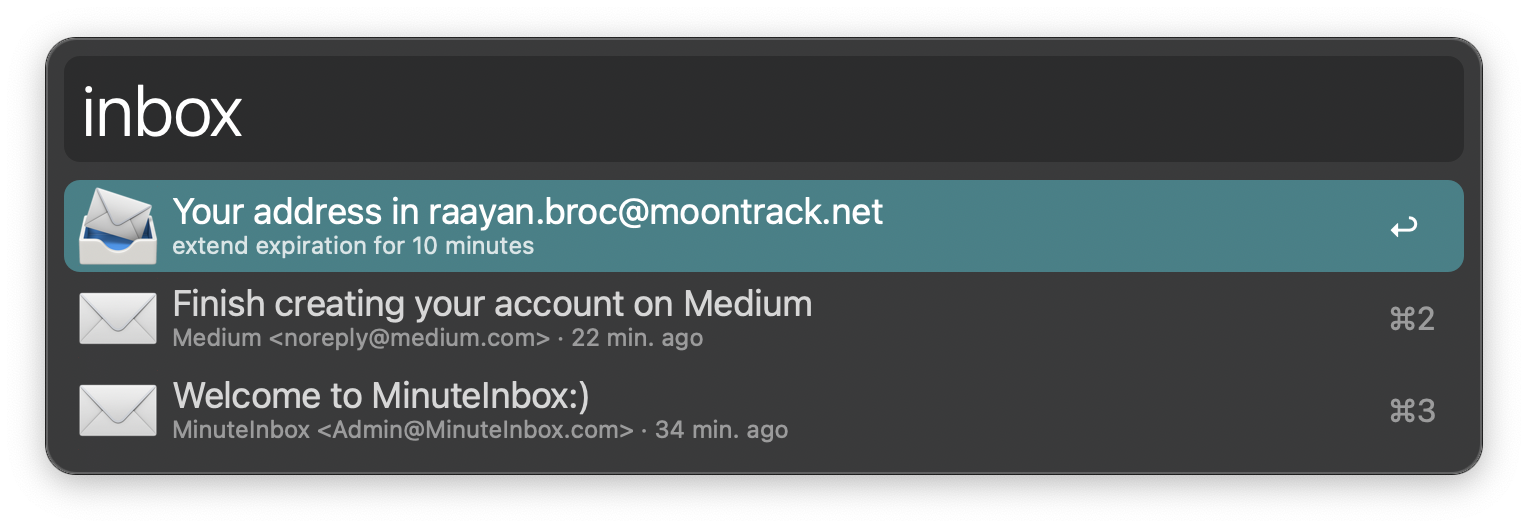
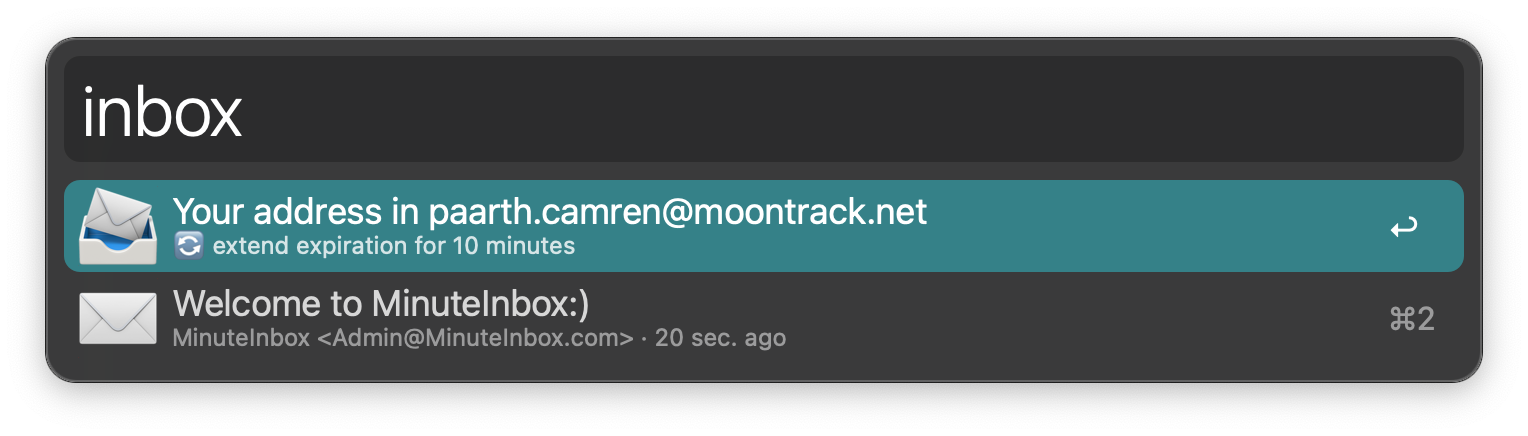
Update documentation

Changed region(s): [[0.0308, 0.1789, 0.9843, 0.9243], [0.0308, 0.0596, 0.9843, 0.1193], [0.892, 0.6858, 0.9535, 0.805]]

diff --git a/README.md b/README.md
@@ -14,9 +14,12 @@ Fully working disposable email address using minuteinbox.com's api.
 
 
 * Press `enter` on the first item (📨) to copy the email address into your clipboard.
-  * Press `command + enter` or `option + enter` to extend the expiration by 10 minutes.
+  * Press `command + enter` to extend the expiration by 10 minutes.
+  * Press `option + enter` to destroy the current inbox.
+
 
 ![extend](screenshots/extend.png)
+![destroy](screenshots/destroy.png)
 
 
 * Press `enter` on any of the emails (✉) to open a local copy of its contents in your browser.
